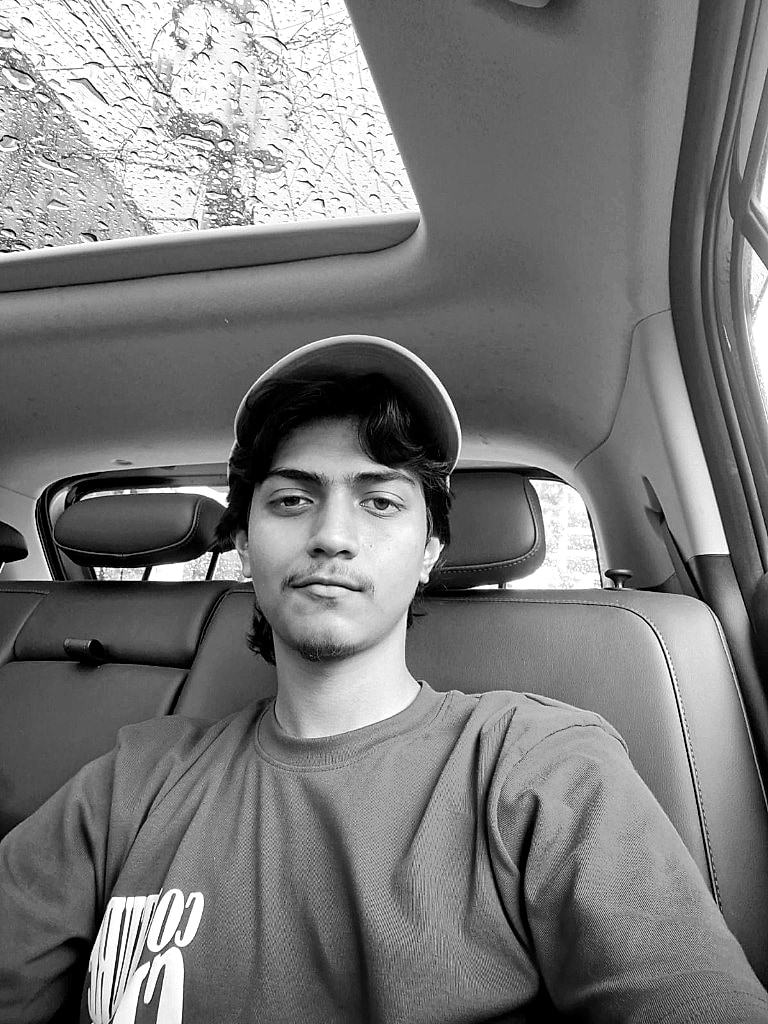
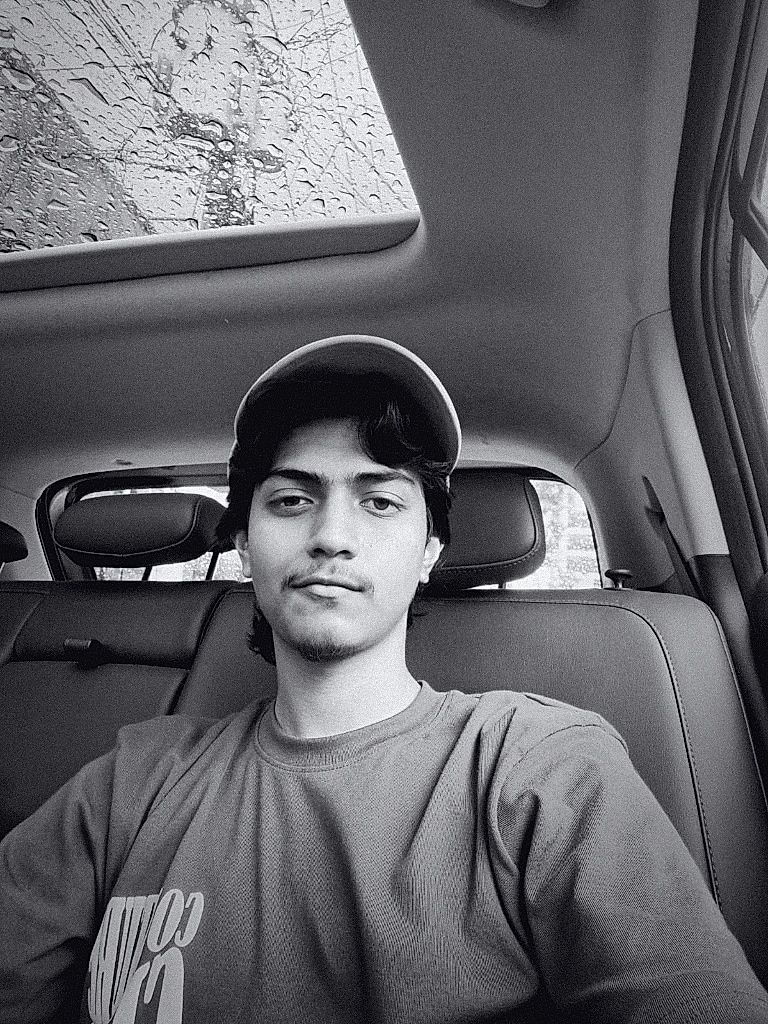
style(studio): upgrade portrait to high-end panchromatic black-and-white grading with studio lighting and refined frame bevel

diff --git a/app/studio/page.module.css b/app/studio/page.module.css
@@ -1195,27 +1195,43 @@
   overflow: hidden;
   margin-bottom: 18px;
   flex-shrink: 0;
-  background: linear-gradient(145deg, #181630 0%, #0d0d18 100%);
-  border: 1.5px solid rgba(147, 51, 234, 0.3);
+  background: #090910;
+  border: 1px solid rgba(168, 85, 247, 0.28);
   box-shadow: 
-    inset 2px 2px 5px rgba(0, 0, 0, 0.25),
-    0 6px 18px rgba(0, 0, 0, 0.12);
+    inset 0 1px 1px rgba(255, 255, 255, 0.1),
+    inset 0 -2px 6px rgba(0, 0, 0, 0.6),
+    0 8px 24px -4px rgba(0, 0, 0, 0.4);
+  transition: border-color 0.4s ease, box-shadow 0.4s ease;
 }
 
 .memberPhotoFrame::after {
   content: "";
   position: absolute;
   inset: 0;
-  background: linear-gradient(180deg, rgba(0, 0, 0, 0) 58%, rgba(10, 10, 18, 0.72) 100%);
+  background: linear-gradient(
+    180deg, 
+    rgba(9, 9, 16, 0.18) 0%, 
+    rgba(9, 9, 16, 0) 22%, 
+    rgba(9, 9, 16, 0) 55%, 
+    rgba(9, 9, 16, 0.85) 100%
+  );
   pointer-events: none;
   z-index: 2;
 }
 
 :global([data-theme="dark"]) .memberPhotoFrame {
-  border-color: rgba(147, 51, 234, 0.35);
+  border-color: rgba(168, 85, 247, 0.35);
   box-shadow: 
-    inset 0 2px 8px rgba(0, 0, 0, 0.6),
-    0 6px 20px rgba(0, 0, 0, 0.3);
+    inset 0 1px 1px rgba(255, 255, 255, 0.12),
+    inset 0 -2px 8px rgba(0, 0, 0, 0.7),
+    0 8px 24px -4px rgba(0, 0, 0, 0.5);
+}
+
+.memberCard:hover .memberPhotoFrame {
+  border-color: rgba(168, 85, 247, 0.55);
+  box-shadow: 
+    inset 0 1px 2px rgba(255, 255, 255, 0.2),
+    0 12px 32px -4px rgba(124, 58, 237, 0.25);
 }
 
 .memberPhotoImg {
@@ -1223,15 +1239,14 @@
   width: 100%;
   height: 100%;
   object-fit: cover;
-  object-position: center 22%;
+  object-position: center 20%;
   display: block;
   z-index: 1;
-  filter: grayscale(100%) contrast(1.1) brightness(1.02);
-  transition: transform 0.4s cubic-bezier(0.4, 0, 0.2, 1), filter 0.3s ease;
+  transition: transform 0.5s cubic-bezier(0.16, 1, 0.3, 1);
 }
 
 .memberCard:hover .memberPhotoImg {
-  transform: scale(1.04);
+  transform: scale(1.035);
 }
 
 .memberPhotoFallback {
